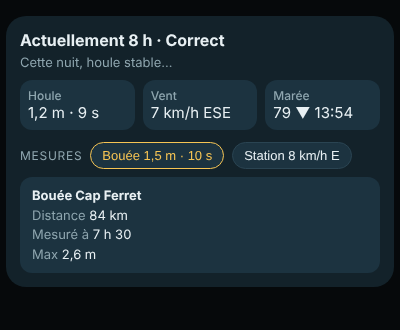
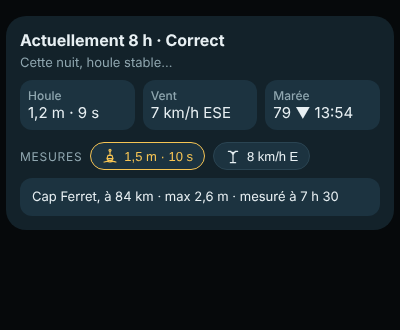
Maquette Mesures : icônes, détail sur une ligne
Claude-Session: https://claude.ai/code/session_01SmdS3QR8SGgih4tjLPucxr

diff --git a/docs/maquettes/propositions-v3/actuellement-mesures.html b/docs/maquettes/propositions-v3/actuellement-mesures.html
@@ -9,7 +9,7 @@ h3{margin:0 0 4px;font-size:16px}.sub{color:var(--m);font-size:13px;margin-botto
 .tile b{display:block;font-size:12px;color:var(--m);font-weight:500}
 .row{display:flex;align-items:center;gap:8px;margin-top:12px}
 .lab{font-size:12px;color:var(--m);text-transform:uppercase;letter-spacing:.06em}
-.pill{background:var(--pill);border:1px solid #2a4452;color:var(--t);border-radius:999px;padding:5px 11px;font-size:13px;cursor:pointer}
+.pill{display:inline-flex;align-items:center;gap:6px;background:var(--pill);border:1px solid #2a4452;color:var(--t);border-radius:999px;padding:5px 11px;font-size:13px;cursor:pointer}
 .pill.on{border-color:var(--ac);color:var(--ac)}
 .detail{margin-top:8px;background:var(--pill);border-radius:12px;padding:9px 12px;font-size:13px;line-height:1.5;display:none}
 .detail.show{display:block}.detail span{color:var(--m)}
@@ -18,10 +18,10 @@ h3{margin:0 0 4px;font-size:16px}.sub{color:var(--m);font-size:13px;margin-botto
 <h3>Actuellement 8 h · Correct</h3><div class="sub">Cette nuit, houle stable…</div>
 <div class="tiles"><div class="tile"><b>Houle</b>1,2 m · 9 s</div><div class="tile"><b>Vent</b>7 km/h ESE</div><div class="tile"><b>Marée</b>79 ▼ 13:54</div></div>
 <div class="row"><span class="lab">Mesures</span>
-<button class="pill" data-d="b">Bouée 1,5 m · 10 s</button>
-<button class="pill" data-d="s">Station 8 km/h E</button></div>
-<div class="detail" id="b"><b>Bouée Cap Ferret</b><br><span>Distance</span> 84 km<br><span>Mesuré à</span> 7 h 30<br><span>Max</span> 2,6 m</div>
-<div class="detail" id="s"><b>Vendays-Montalive</b><br><span>Distance</span> 3 km<br><span>Mesuré à</span> 7 h 00<br><span>Vent</span> 8 km/h E, rafales 14 km/h</div>
+<button class="pill" data-d="b"><svg width="16" height="16" viewBox="0 0 24 24" fill="none" stroke="currentColor" stroke-width="1.8" stroke-linecap="round" stroke-linejoin="round"><circle cx="12" cy="3.5" r="1.5"/><path d="M12 5v6M9 11h6l1.5 5h-9zM8 16c0 2 1.5 3 4 3s4-1 4-3M3 21c2 0 2-1 4.5-1S10 21 12 21s2.500-1 4.500-1S19 21 21 21"/></svg> 1,5 m · 10 s</button>
+<button class="pill" data-d="s"><svg width="16" height="16" viewBox="0 0 24 24" fill="none" stroke="currentColor" stroke-width="1.8" stroke-linecap="round" stroke-linejoin="round"><path d="M12 22V8M8 22h8M12 8l-5-3M12 8l5-3M5 5h4M15 5h4"/><circle cx="12" cy="8" r="1.3"/></svg> 8 km/h E</button></div>
+<div class="detail" id="b">Cap Ferret, à 84 km · max 2,6 m · mesuré à 7 h 30</div>
+<div class="detail" id="s">Vendays-Montalive, à 3 km · rafales 14 km/h · mesuré à 7 h 00</div>
 </div>
 <script>
 document.querySelectorAll('.pill').forEach(p=>p.onclick=()=>{const on=p.classList.contains('on');
